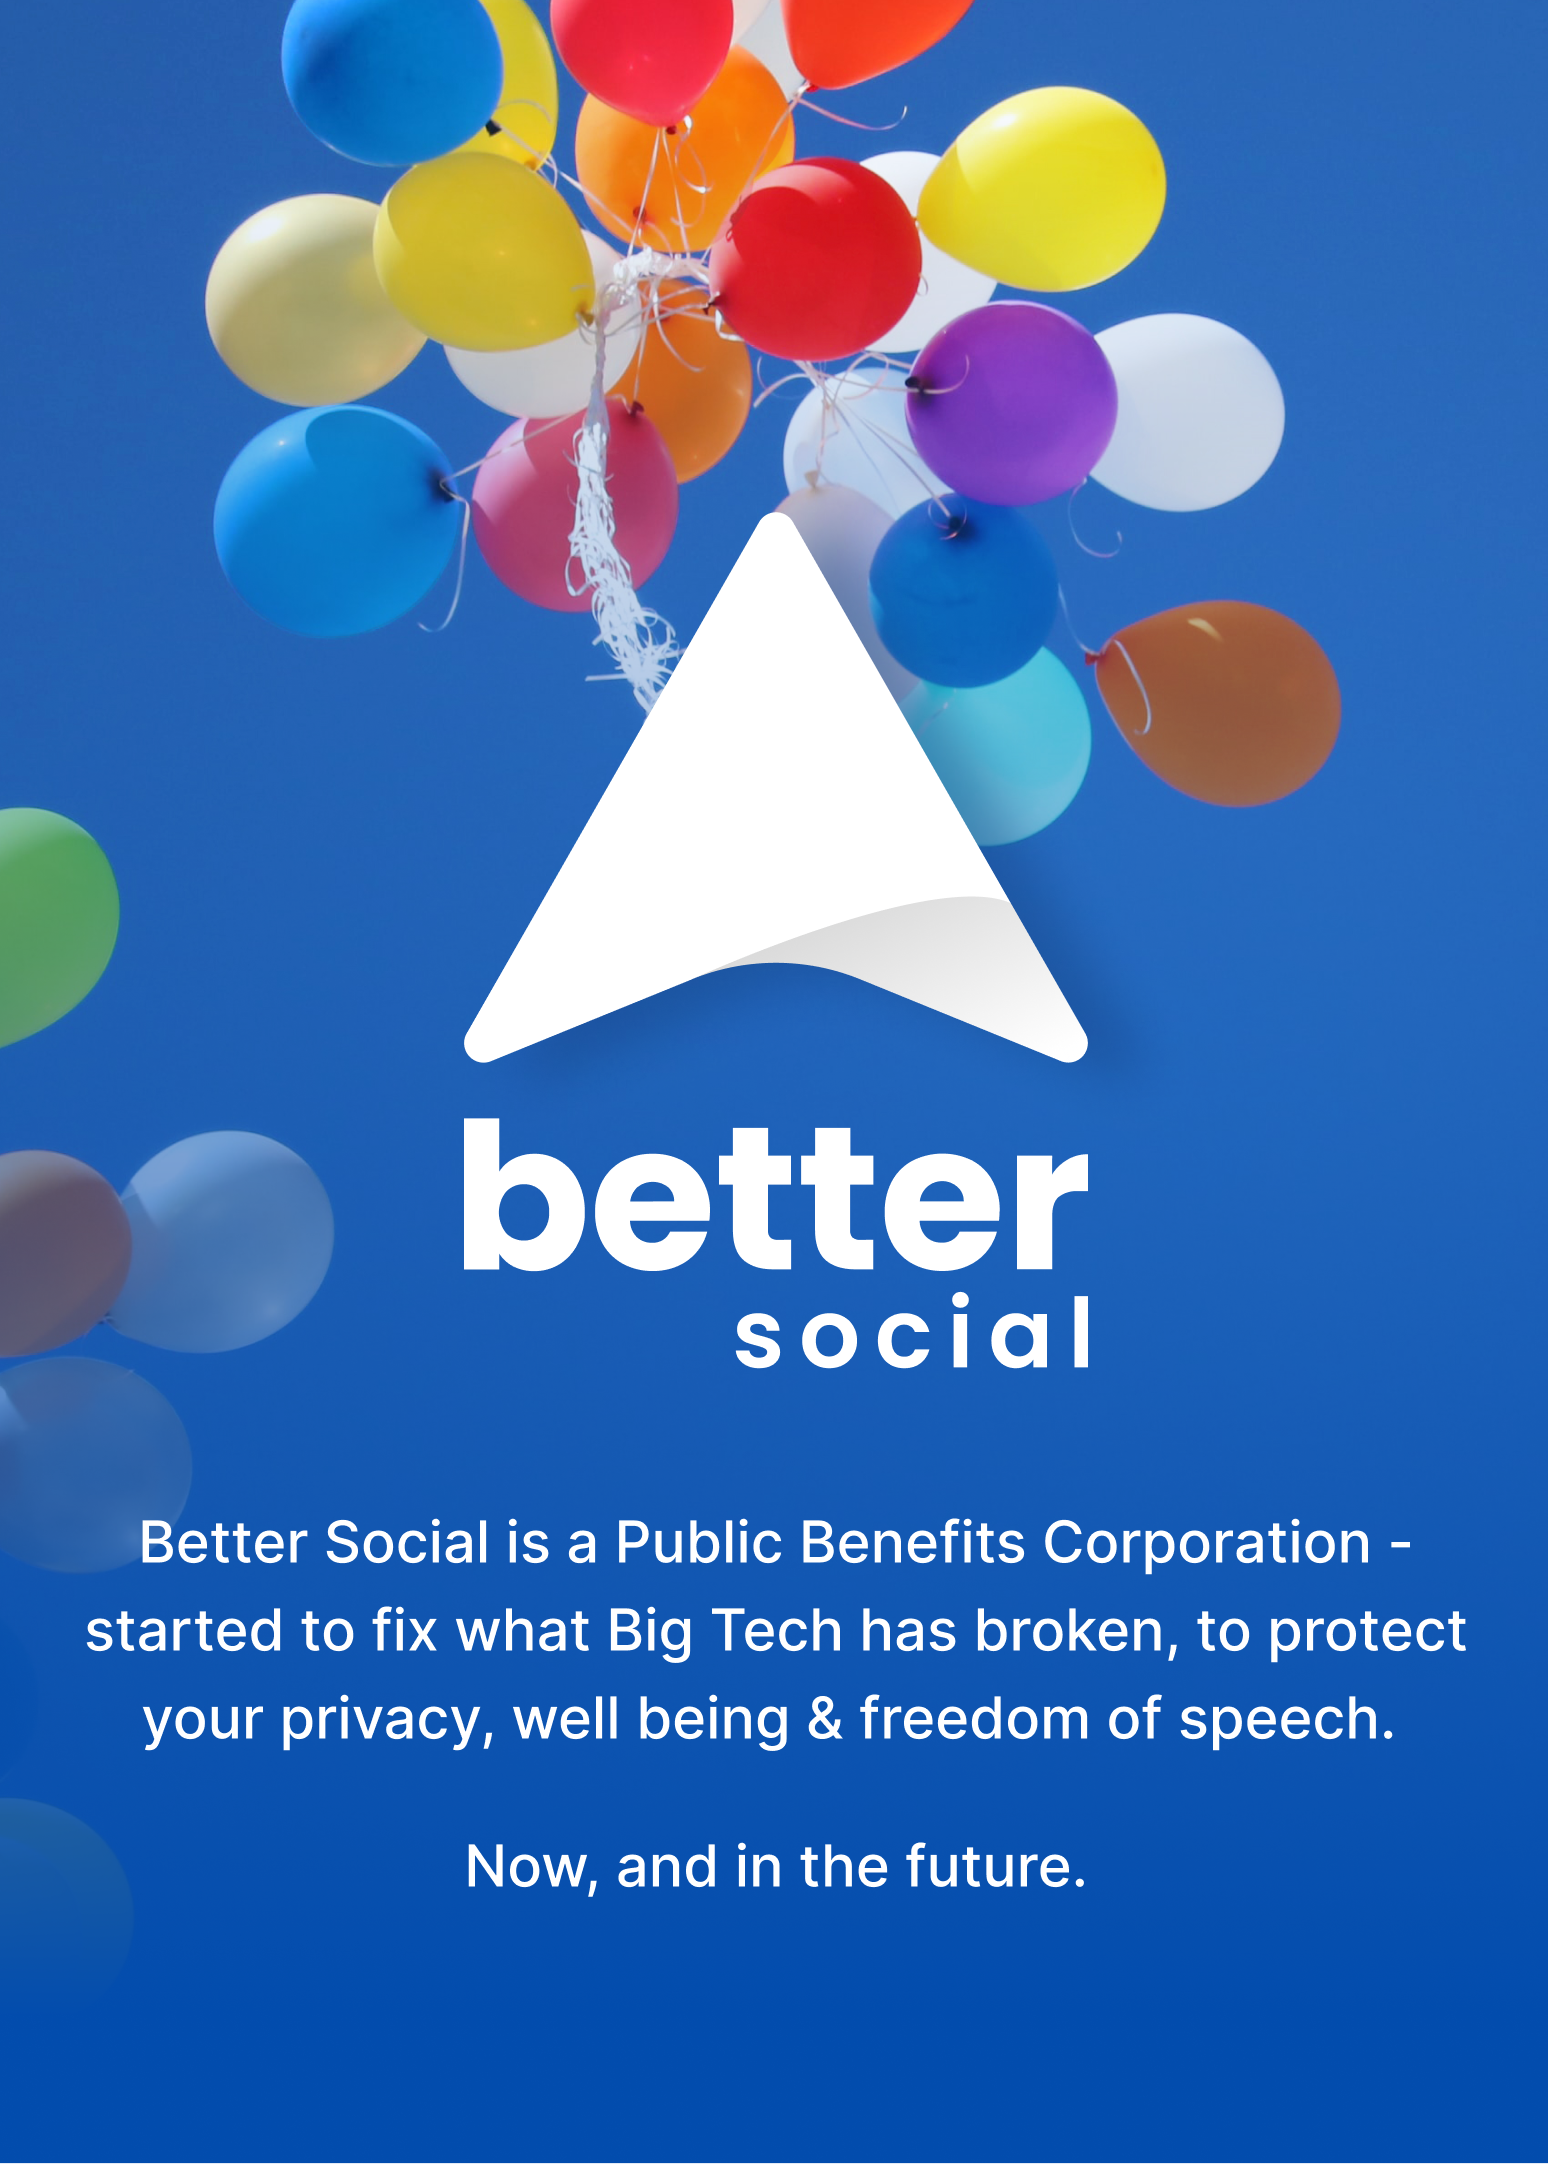
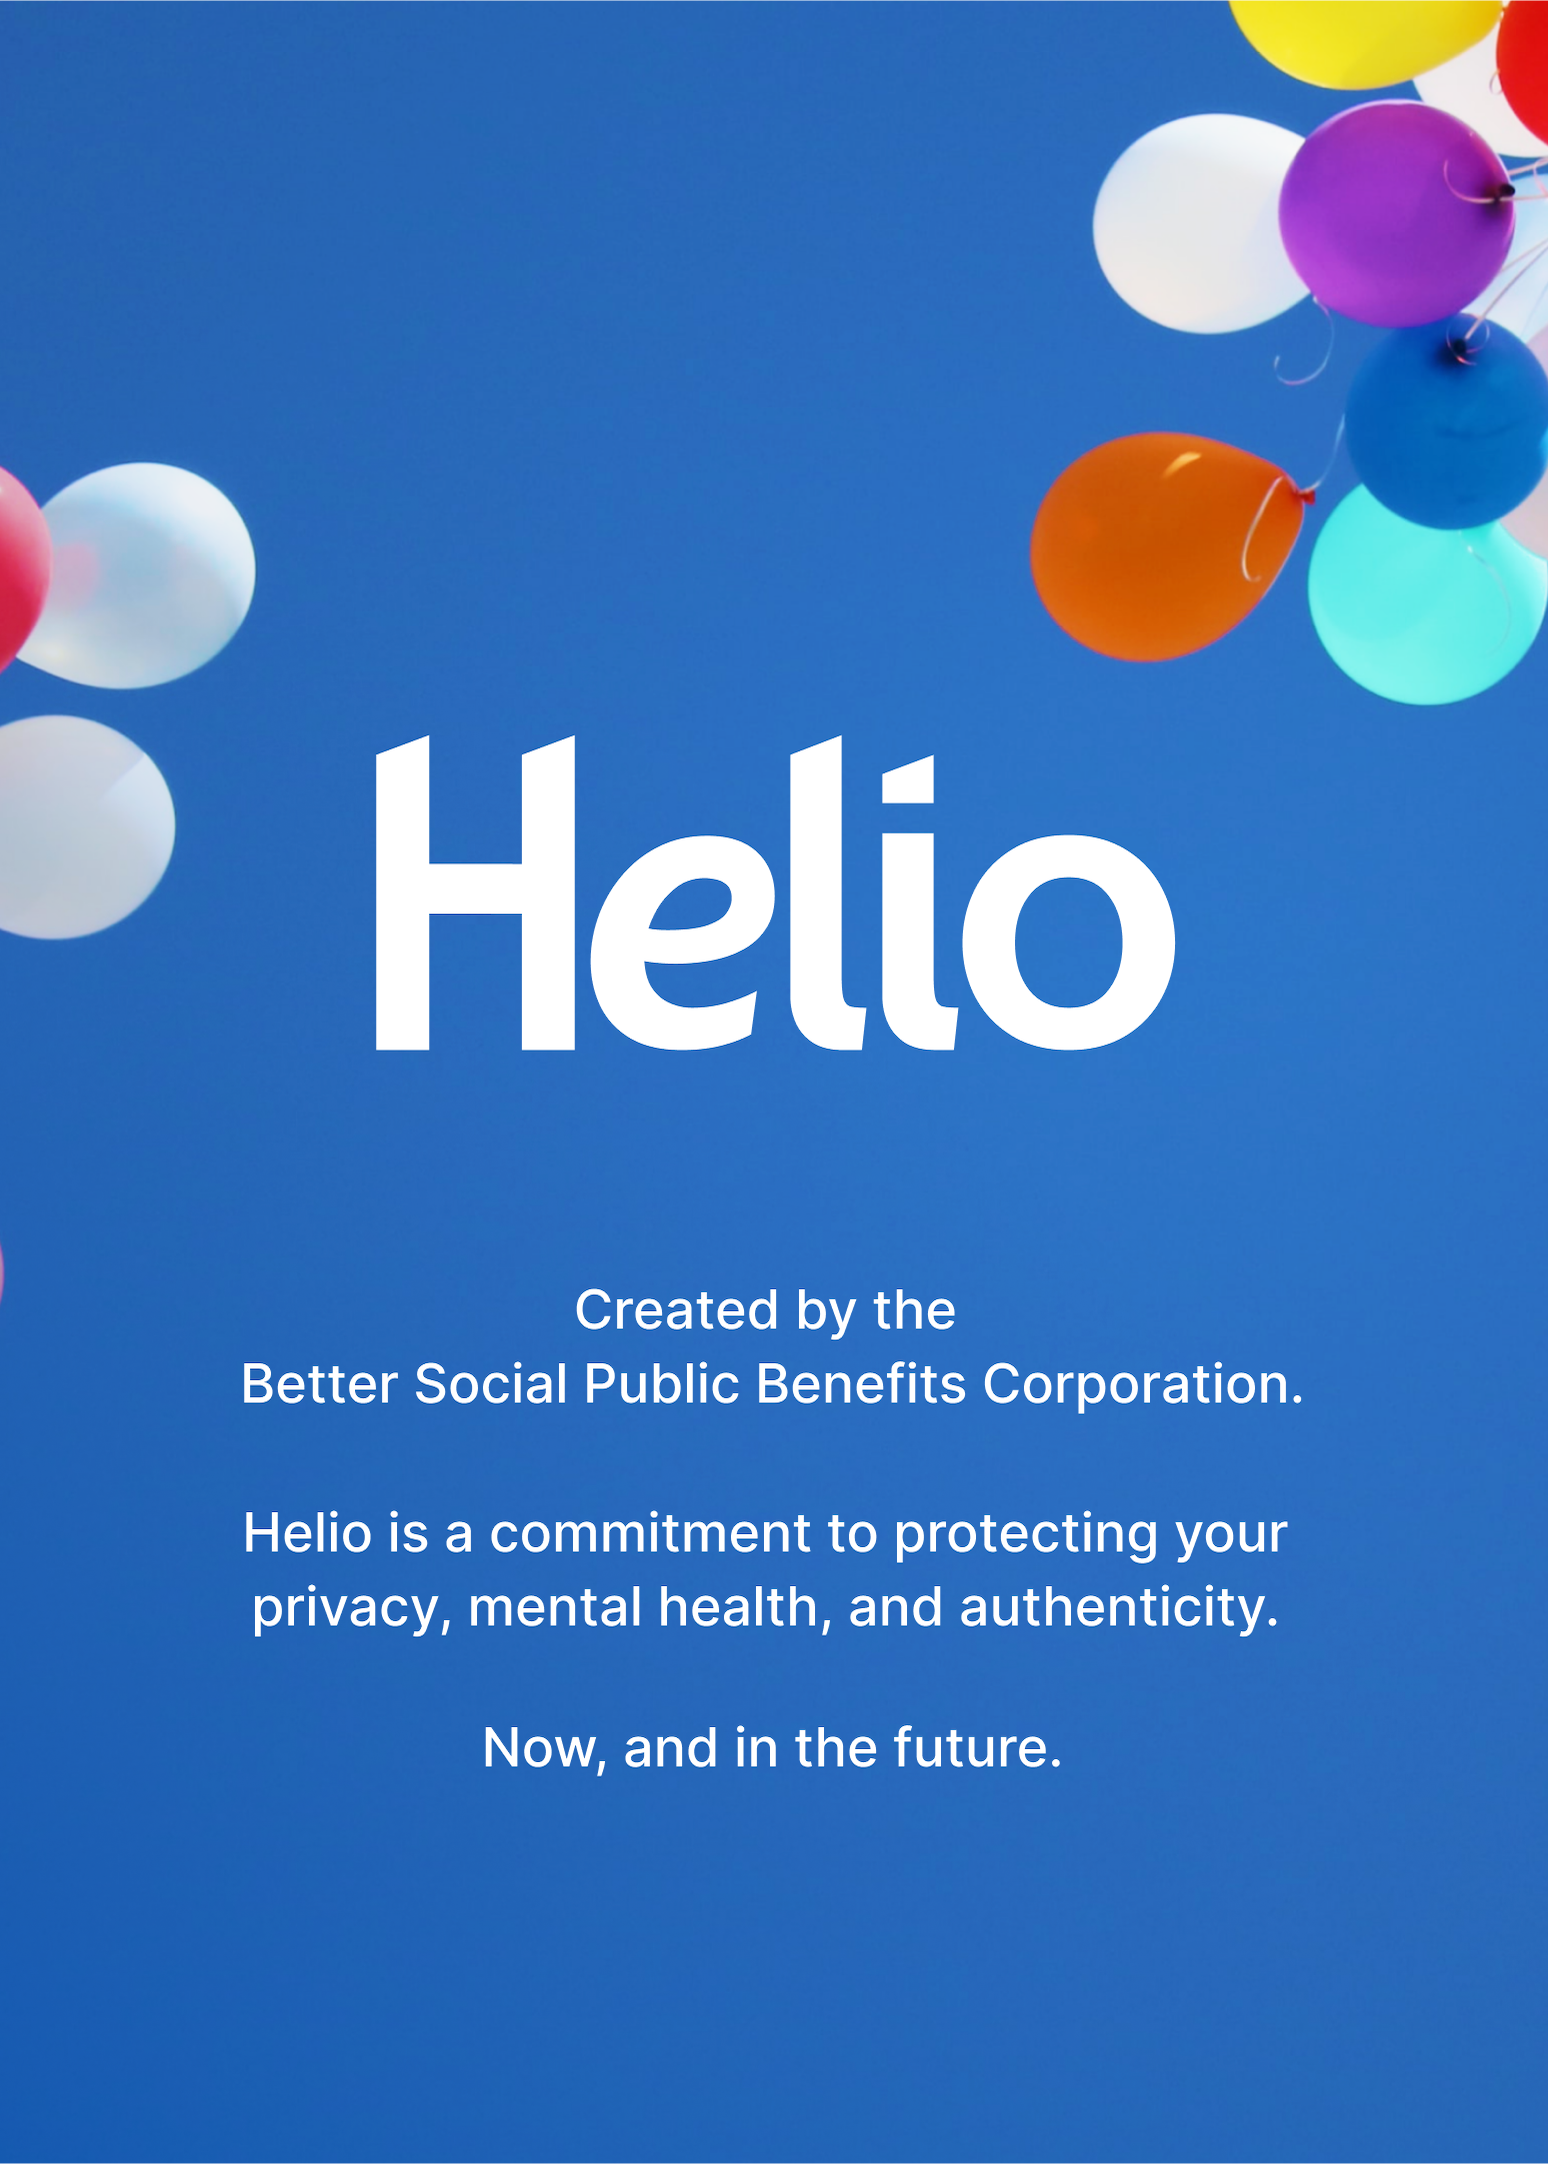
feat: ping-3693 presignup onboarding

diff --git a/src/screens/SignInV2/elements/SlideShowItem.js b/src/screens/SignInV2/elements/SlideShowItem.js
@@ -1,13 +1,11 @@
 import * as React from 'react';
-import {Dimensions, Image, StyleSheet, Text, TouchableWithoutFeedback, View} from 'react-native';
+import {Dimensions, Image, StyleSheet, TouchableWithoutFeedback, View} from 'react-native';
 
 import {useSafeAreaInsets} from 'react-native-safe-area-context';
 import BgOnboardingTop from '../../../assets/background/bg_onboarding_top.png';
 import BottomOverlay from './BottomOverlay';
-import IconBetterOnboarding from '../../../assets/icon/IconBetterOnboarding';
 import dimen from '../../../utils/dimen';
-import {COLORS} from '../../../utils/theme';
-import {fonts, normalize, normalizeFontSize} from '../../../utils/fonts';
+import {fonts, normalize} from '../../../utils/fonts';
 
 const {height, width} = Dimensions.get('screen');
 
@@ -54,21 +52,6 @@ export const SlideShowItem = ({
       <TouchableWithoutFeedback onPress={onPressContainer}>
         <View style={styles.onboardingBackgroundTopContainer}>
           <Image source={BgOnboardingTop} style={styles.onboardingBackgroundTop} />
-          <View style={styles.brandLoginContainer}>
-            <IconBetterOnboarding
-              width={dimen.size.ONBOARDING_BETTER_LOGO_WIDTH}
-              height={dimen.size.ONBOARDING_BETTER_LOGO_HEIGHT}
-              style={styles.brandLoginImage}
-            />
-            {/* <IconBetterOnboarding width={156} height={213.94} style={styles.brandLoginImage} /> */}
-            <Text style={styles.brandLoginTopText}>
-              {'Better Social is a Public Benefits Corporation\n'}
-              {'started to fix what Big Tech has broken.\n'}
-              {'\n'}
-              {'We focus on preserving your privacy, well being,\n'}
-              {'and ability to speak your mind.'}
-            </Text>
-          </View>
         </View>
       </TouchableWithoutFeedback>
     );
@@ -100,21 +83,6 @@ export const SlideShowItem = ({
 };
 
 const styles = StyleSheet.create({
-  brandLoginContainer: {alignSelf: 'center'},
-  brandLoginTopText: {
-    alignSelf: 'center',
-    textAlign: 'center',
-    fontFamily: fonts.inter[500],
-    fontSize: normalizeFontSize(14.12),
-    lineHeight: normalizeFontSize(21.18),
-    marginBottom: normalize(55),
-    color: COLORS.white
-  },
-  brandLoginImage: {
-    alignSelf: 'center',
-    marginBottom: dimen.normalizeDimen(height > 640 ? 32.62 : 8)
-    // backgroundColor: 'red'
-  },
   container: {
     height: '100%',
     width

diff --git a/src/screens/SignInV2/elements/BottomOverlay/index.js b/src/screens/SignInV2/elements/BottomOverlay/index.js
@@ -50,7 +50,7 @@ const BottomOverlay = ({count, handleLogin, index, isLogin, title, onNextSlide, 
               <Text style={bottomOverlayStyles.descBold}>{' without storing\n'}</Text>
               {'your data or'}
               <Text style={bottomOverlayStyles.descBold}>{' sharing'}</Text>
-              {' it with BetterSocial'}
+              {' it with Helio'}
             </Text>
           </View>
         </View>
